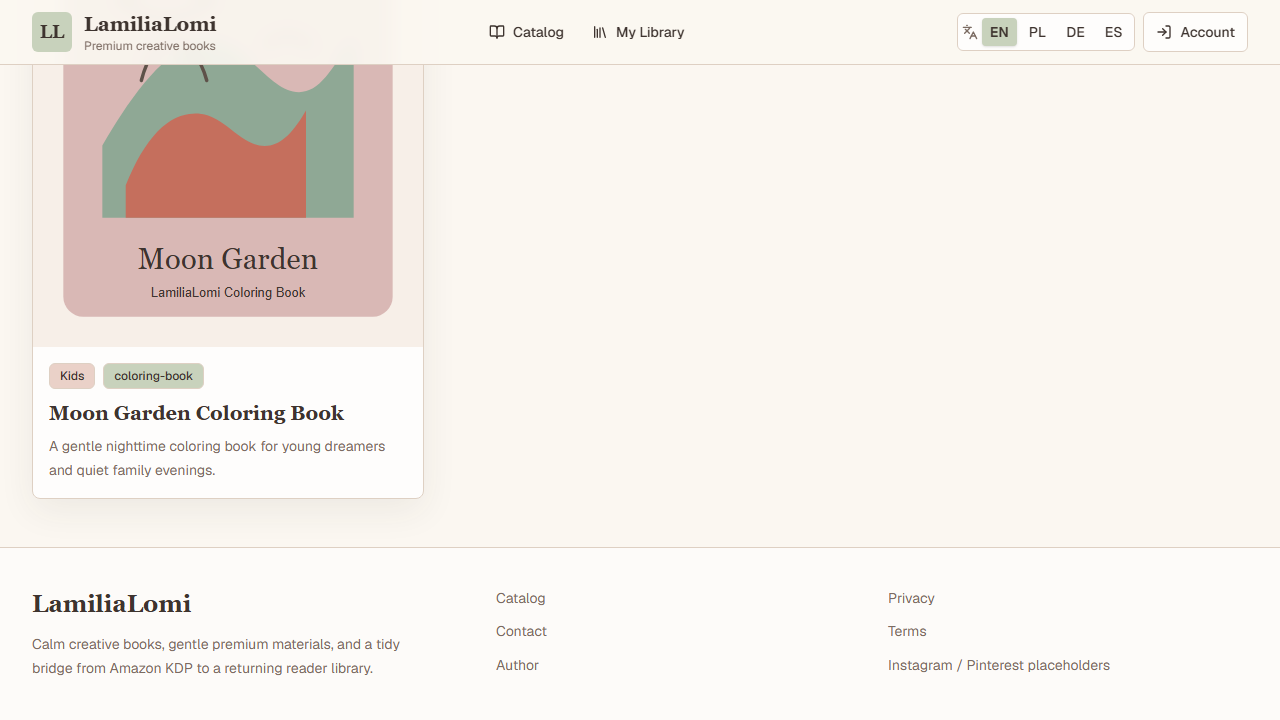
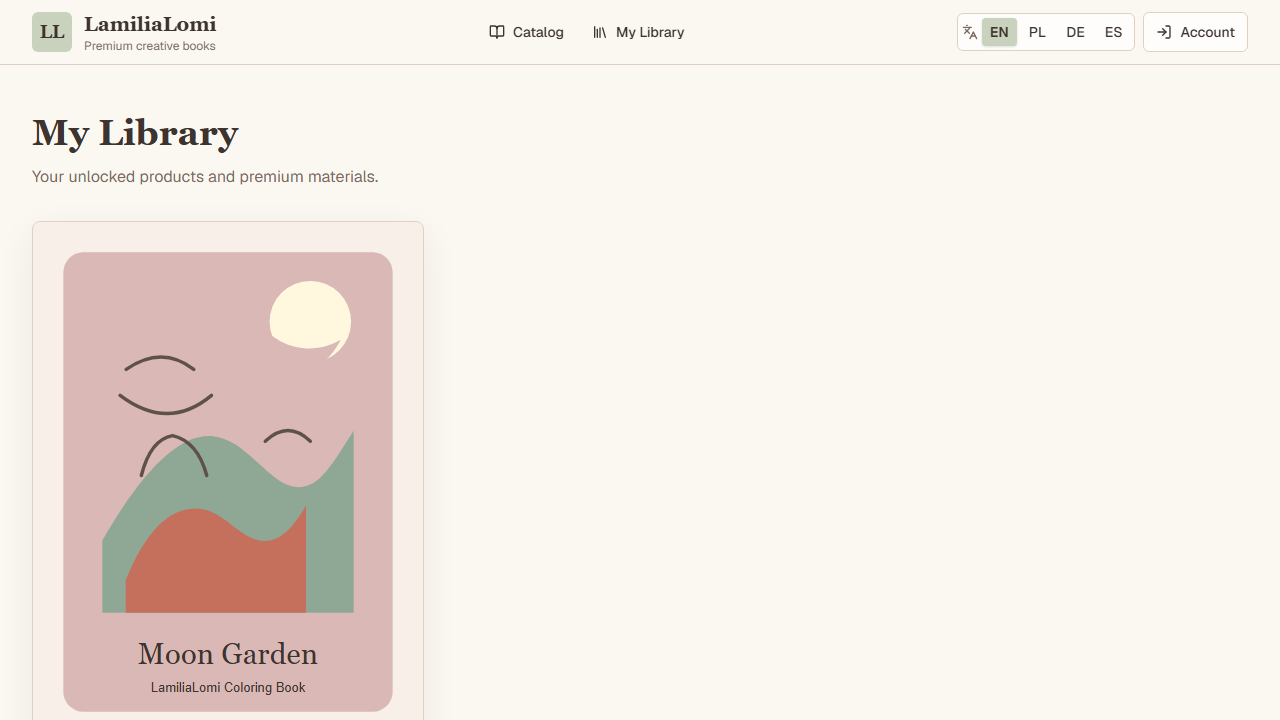
test: frame library evidence at page top

diff --git a/tests/e2e/issue-31-qr-premium-workflow.spec.ts b/tests/e2e/issue-31-qr-premium-workflow.spec.ts
@@ -26,7 +26,7 @@ test.describe("Issue 31 local QR and premium workflow", () => {
   test("a QR scan survives registration and verification, unlocks My Library, and denies anonymous downloads", async ({ page }, testInfo) => {
     test.setTimeout(120_000);
     const consoleErrors: string[] = [];
-    const failedRequests: Array<{ url: string; errorText: string }> = [];
+    const failedRequests: Array<{ method: string; url: string; errorText: string }> = [];
     page.on("console", (message) => {
       if (message.type() === "error") consoleErrors.push(message.text());
     });
@@ -34,7 +34,8 @@ test.describe("Issue 31 local QR and premium workflow", () => {
     page.on("requestfailed", (request) => {
       failedRequests.push(
         {
-          url: `${request.method()} ${request.url()}`,
+          method: request.method(),
+          url: request.url(),
           errorText: request.failure()?.errorText ?? "unknown",
         },
       );
@@ -79,7 +80,7 @@ test.describe("Issue 31 local QR and premium workflow", () => {
     await page.getByRole("link", { name: "Go to My Library" }).click();
     await expect(page).toHaveURL(/\/en\/library$/);
     await expect(page.getByTestId("library-page")).toContainText("Moon Garden");
-    await page.getByTestId("library-page").getByText("Moon Garden Coloring Book").scrollIntoViewIfNeeded();
+    await page.evaluate(() => window.scrollTo(0, 0));
     await saveEvidenceScreenshot(page, testInfo, "qr-my-library");
 
     await page.goto(
@@ -101,7 +102,14 @@ test.describe("Issue 31 local QR and premium workflow", () => {
     });
     expect(consoleErrors, "browser console errors").toEqual([]);
     expect(
-      failedRequests.filter(({ errorText }) => !/net::ERR_ABORTED/.test(errorText)),
+      failedRequests.filter(({ method, url, errorText }) => {
+        if (errorText !== "net::ERR_ABORTED") return true;
+        const failedUrl = new URL(url);
+        return !(
+          (method === "POST" && failedUrl.pathname === "/en/register" && failedUrl.searchParams.has("returnTo")) ||
+          (method === "GET" && failedUrl.pathname === "/en/library" && failedUrl.searchParams.has("_rsc"))
+        );
+      }),
       "unexpected browser request failures",
     ).toEqual([]);
   });
